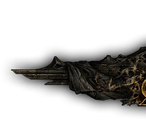
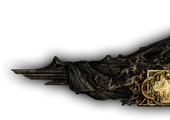
Game art: seamless crest, lit scrollbar thumb, crest stays on screen
- The crest is cut so that at its own width it is the untouched game art,
  stretching only through 1px strips taken at its joins: no box around the
  title. Titles on a crest can't be selected, as in the game.
- The scrollbar thumb lights up under the mouse and while held.
- Settings keeps 2rem more from the screen's edges, so the crest rising
  above its title bar isn't cut off when the window is at full height.

Claude-Session: https://claude.ai/code/session_01KiEJNgVgDBWnmEjqc2EbaW

Changed region(s): [[0.0548, 0.225, 1.0, 0.95]]

diff --git a/renderer/src/web/woke/ui/art-sets.css b/renderer/src/web/woke/ui/art-sets.css
@@ -61,8 +61,9 @@
   --art-crest-left: url("/images/poe-ui/crest-left.png");
   --art-crest-centre: url("/images/poe-ui/crest-centre.png");
   --art-crest-right: url("/images/poe-ui/crest-right.png");
-  --art-crest-fill: url("/images/poe-ui/crest-fill.png");
-  --w-crest-cap: 19px;      /* each end's width at the banner's 60px */
+  --art-crest-fill-l: url("/images/poe-ui/crest-fill-l.png");
+  --art-crest-fill-r: url("/images/poe-ui/crest-fill-r.png");
+  --w-crest-cap: 33px;      /* each end's width at the banner's 60px */
   --w-crest-min: 52px;      /* the centre ornament's width */
   --w-crest-y: -70%;          /* lifts the banner so its plaque sits behind the title */
 }
@@ -70,8 +71,11 @@
   --art-crest-left: url("/images/poe2-ui/crest-left.png");
   --art-crest-centre: url("/images/poe2-ui/crest-centre.png");
   --art-crest-right: url("/images/poe2-ui/crest-right.png");
-  --art-crest-fill: url("/images/poe2-ui/crest-fill.png");
-  --w-crest-cap: 73px;      /* each end's width at the banner's 60px */
+  --art-crest-fill-l: url("/images/poe2-ui/crest-fill-l.png");
+  --art-crest-fill-r: url("/images/poe2-ui/crest-fill-r.png");
+  --w-crest-cap: 85px;      /* each end's width at the banner's 60px */
   --w-crest-min: 73px;      /* the centre ornament's width */
   --w-crest-y: -77%;          /* lifts the banner so its plaque sits behind the title */
 }
+:root[data-woke-art="poe1"] { --art-scroll-thumb-lit: url("/images/poe-ui/scroll-thumb-lit.png"); }
+:root[data-woke-art="poe2"] { --art-scroll-thumb-lit: url("/images/poe2-ui/scroll-thumb-lit.png"); }

diff --git a/renderer/src/web/woke/ui/poe-frame.css b/renderer/src/web/woke/ui/poe-frame.css
@@ -161,6 +161,7 @@
   text-align: center;
   color: #2a1a0b;
   text-shadow: 0 1px 0 rgba(255, 236, 190, 0.35);
+  user-select: none;
 }
 :root[data-woke-art] [data-w-settings] > header > :first-child {
   left: auto;
@@ -186,11 +187,12 @@
     var(--art-crest-left) left top / auto 100% no-repeat,
     var(--art-crest-right) right top / auto 100% no-repeat,
     var(--art-crest-centre) center top / auto 100% no-repeat,
-    var(--art-crest-fill) left top / auto 100% repeat-x;
+    var(--art-crest-fill-l) left top / 50% 100% no-repeat,
+    var(--art-crest-fill-r) right top / 50% 100% no-repeat;
   /* The fill runs only between the two ends. */
   padding: 0 var(--w-crest-cap);
   box-sizing: border-box;
-  background-origin: border-box, border-box, border-box, content-box;
-  background-clip: border-box, border-box, border-box, content-box;
+  background-origin: border-box, border-box, border-box, content-box, content-box;
+  background-clip: border-box, border-box, border-box, content-box, content-box;
   pointer-events: none;
 }

diff --git a/renderer/src/web/woke/ui/poe-price.css b/renderer/src/web/woke/ui/poe-price.css
@@ -62,6 +62,7 @@
   padding: 0 6px;
   overflow: visible;
   color: #2a1a0b !important;
+  user-select: none;
   text-shadow: 0 1px 0 rgba(255, 236, 190, 0.35);
 }
 :root[data-woke-art] #price-window#price-window [data-price-title-text]::before,
@@ -84,9 +85,10 @@
     var(--art-crest-left) left top / auto 100% no-repeat,
     var(--art-crest-right) right top / auto 100% no-repeat,
     var(--art-crest-centre) center top / auto 100% no-repeat,
-    var(--art-crest-fill) left top / auto 100% repeat-x;
-  background-origin: border-box, border-box, border-box, content-box;
-  background-clip: border-box, border-box, border-box, content-box;
+    var(--art-crest-fill-l) left top / 50% 100% no-repeat,
+    var(--art-crest-fill-r) right top / 50% 100% no-repeat;
+  background-origin: border-box, border-box, border-box, content-box, content-box;
+  background-clip: border-box, border-box, border-box, content-box, content-box;
   pointer-events: none;
 }
 

diff --git a/renderer/src/web/woke/ui/poe-content.css b/renderer/src/web/woke/ui/poe-content.css
@@ -114,7 +114,8 @@
   border-radius: 0;
   min-height: 24px;
 }
-:root[data-woke-art] :is([data-w-panel], [data-w-settings], [data-w-window]) ::-webkit-scrollbar-thumb:hover { filter: brightness(1.25); }
+/* The thumb lights up under the mouse and while held, as the game's does. */
+:root[data-woke-art] :is([data-w-panel], [data-w-settings], [data-w-window]) ::-webkit-scrollbar-thumb:is(:hover, :active) { border-image-source: var(--art-scroll-thumb-lit); }
 :root[data-woke-art] :is([data-w-panel], [data-w-settings], [data-w-window]) ::-webkit-scrollbar-corner { background: transparent; }
 
 /* ---------- Panels' own parts ---------- */

diff --git a/renderer/src/web/woke/settings/SettingsShell.vue b/renderer/src/web/woke/settings/SettingsShell.vue
@@ -390,7 +390,8 @@ try {
 } catch {}
 const sizeStyle = computed(() => ({
   width: `min(${size.value.w}rem, calc(100vw - 2rem))`,
-  height: `min(${size.value.h}rem, calc(100vh - 2rem))`
+  // 4rem, not 2rem: the game art's crest rises above the title bar and must stay on screen.
+  height: `min(${size.value.h}rem, calc(100vh - 4rem))`
 }))
 
 function startResize (e: PointerEvent, edge: 'e' | 's' | 'se') {
